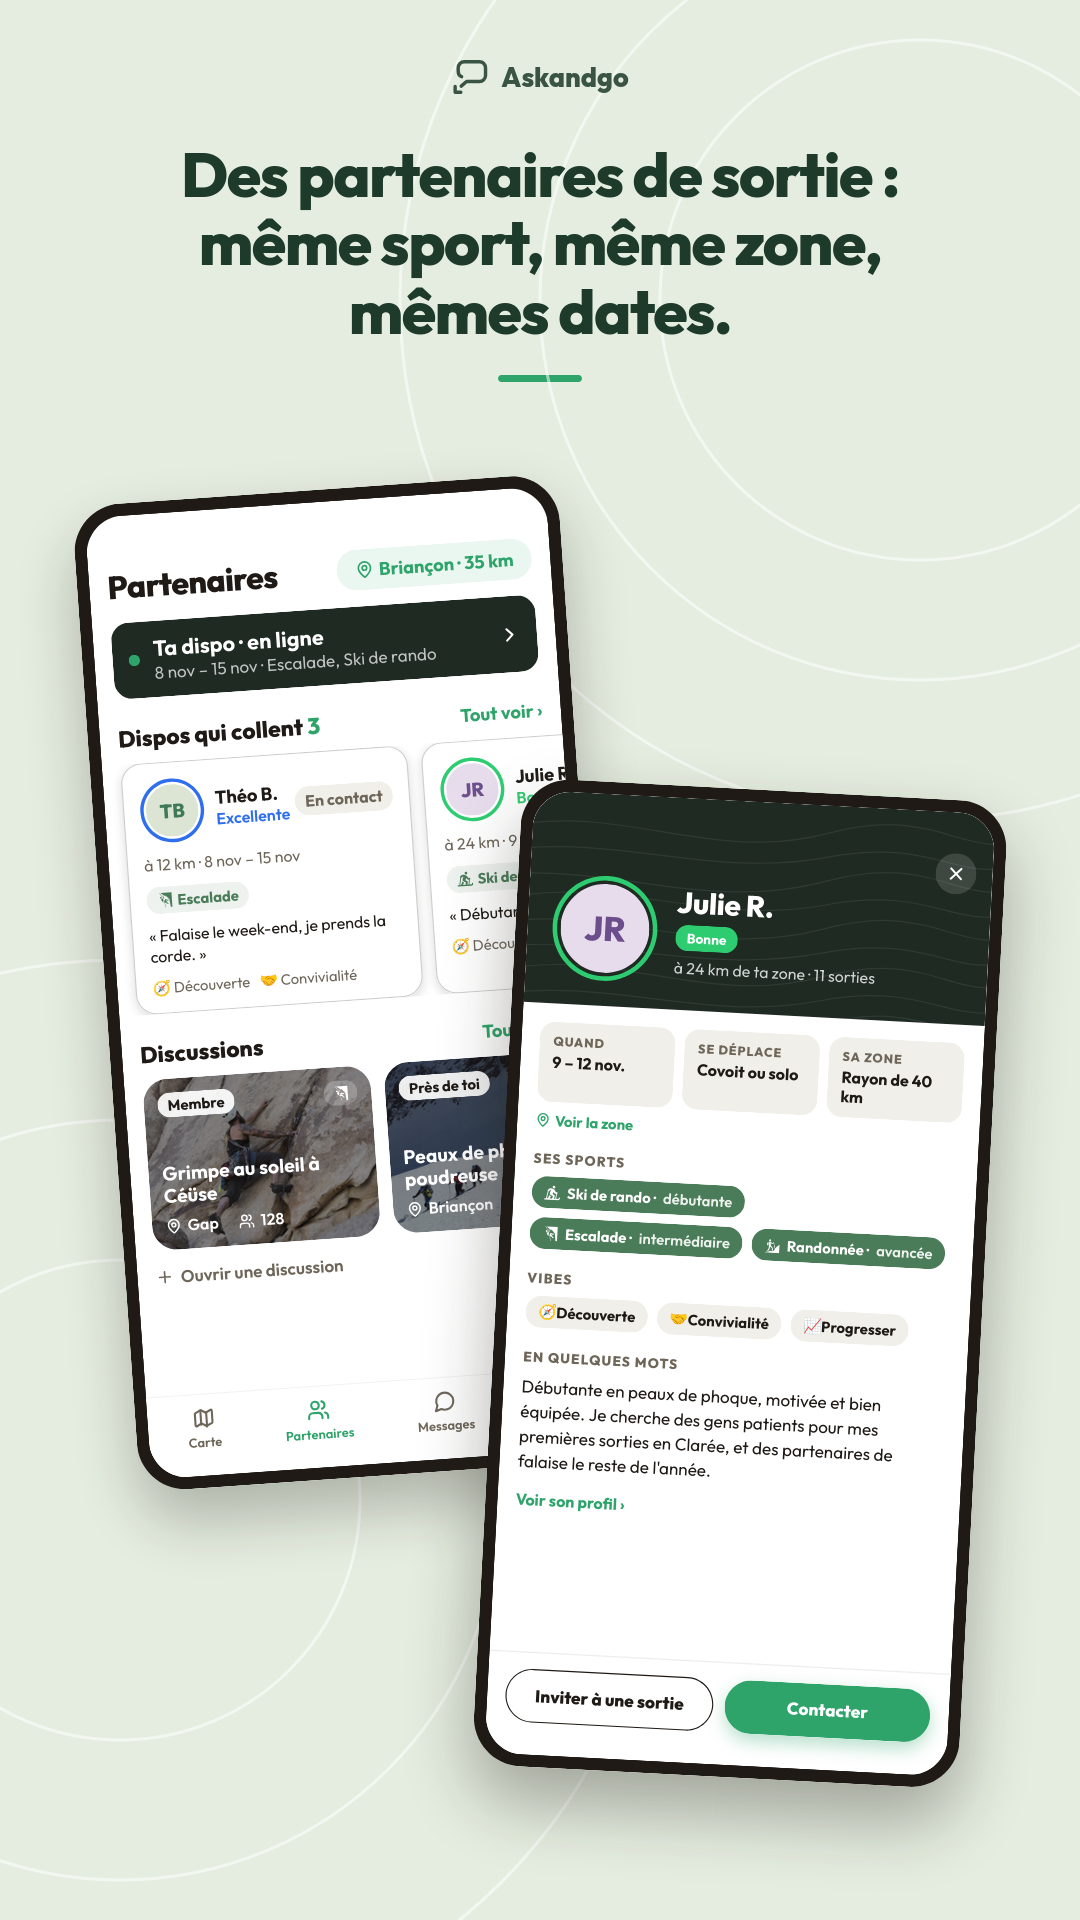
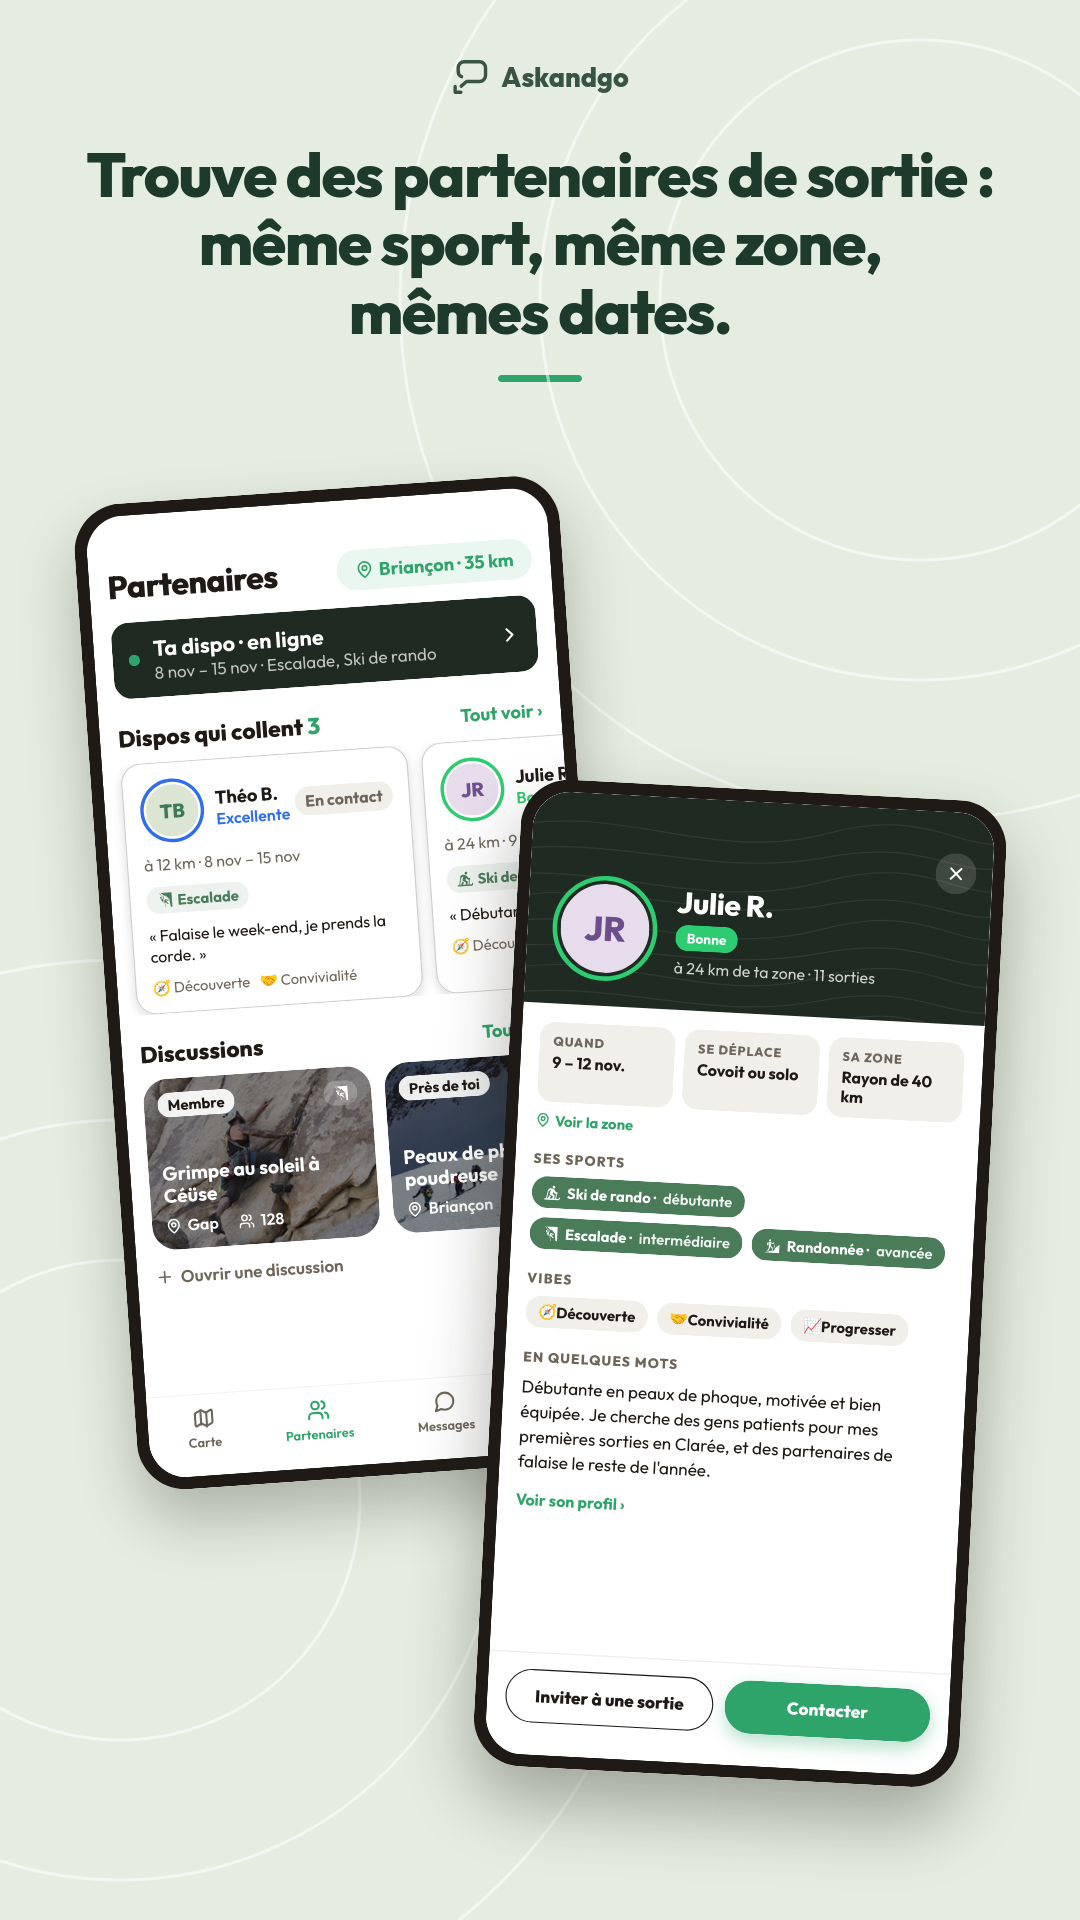
feat(play): image 3 title — « Trouve des partenaires de sortie : même sport, même zone, mêmes dates. »

Changed region(s): [[0.0917, 0.0625, 0.9167, 0.125]]

diff --git a/assets/play-store/askandgo/two.py b/assets/play-store/askandgo/two.py
@@ -139,7 +139,7 @@ if which == '4':
     html = side_by_side("Rejoins les discussions<br>des pratiquants, sport par sport,<br>partout où tu vas.", '', canaux_body, thread_body,
                         [(sp('ski-touring', 34, INK), 'Par sport'), (li('pin', 32, INK), 'Par lieu'), (li('users', 32, INK), 'Ouvert à tous')])
 elif which == '3':
-    html = two_screens("Des partenaires de sortie :<br>même sport, même zone,<br>mêmes dates.", '', partenaires_body, dispo_body)
+    html = two_screens("Trouve des partenaires de sortie :<br>même sport, même zone,<br>mêmes dates.", '', partenaires_body, dispo_body)
 else:
     html = two_screens("Trouve le guide et la sortie<br>qu'il te faut, n'importe où.<br>Et réserve en quelques taps.", "", pro_body, offering_body)
 html = html.replace('font-size:82px;line-height:1.04', 'font-size:62px;line-height:1.1').replace('margin:150px 70px 0;text-align:center', 'margin:140px 60px 0;text-align:center')
